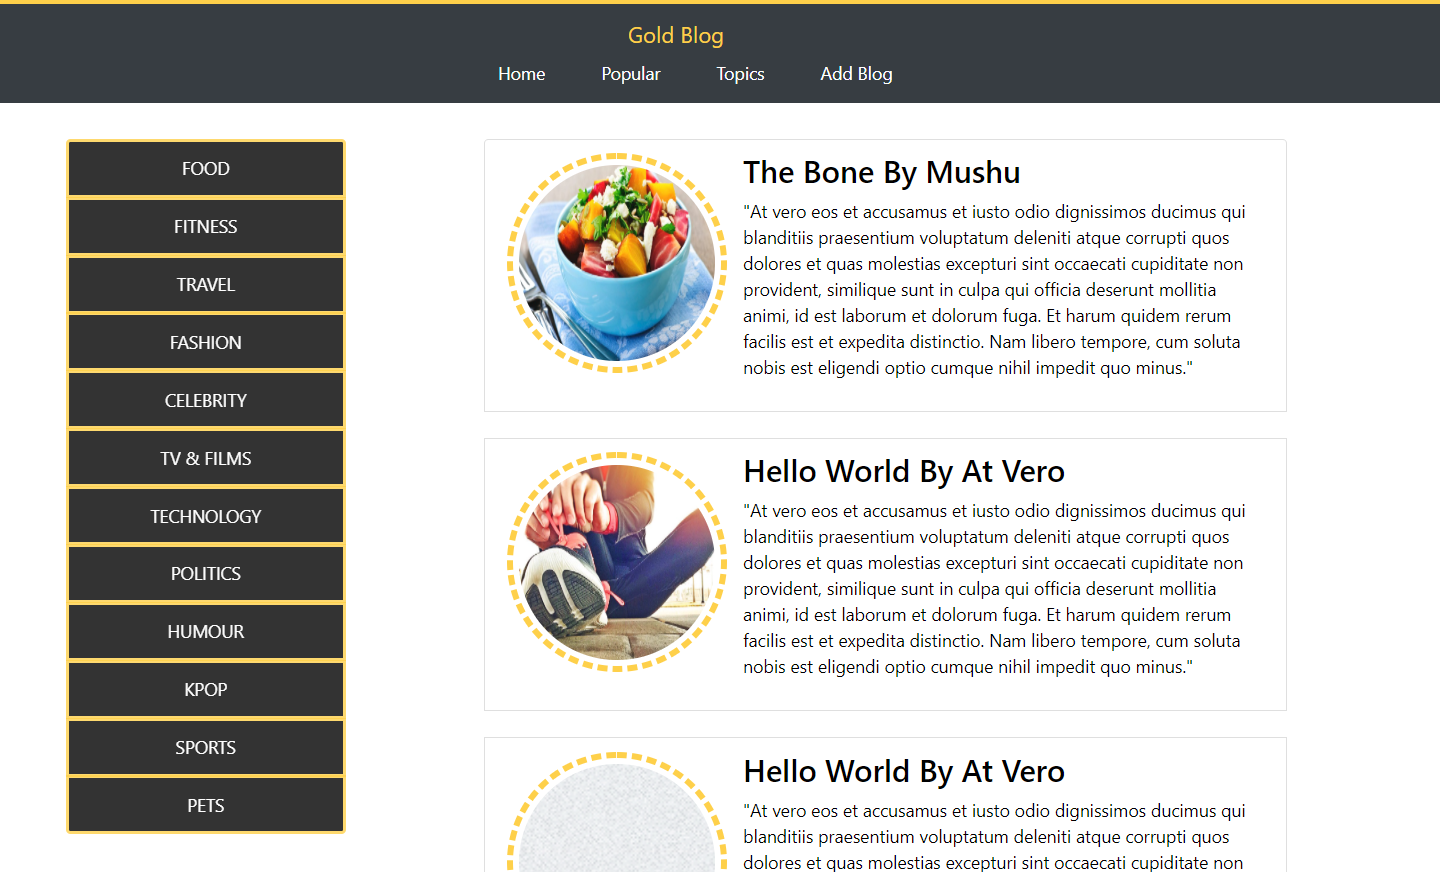
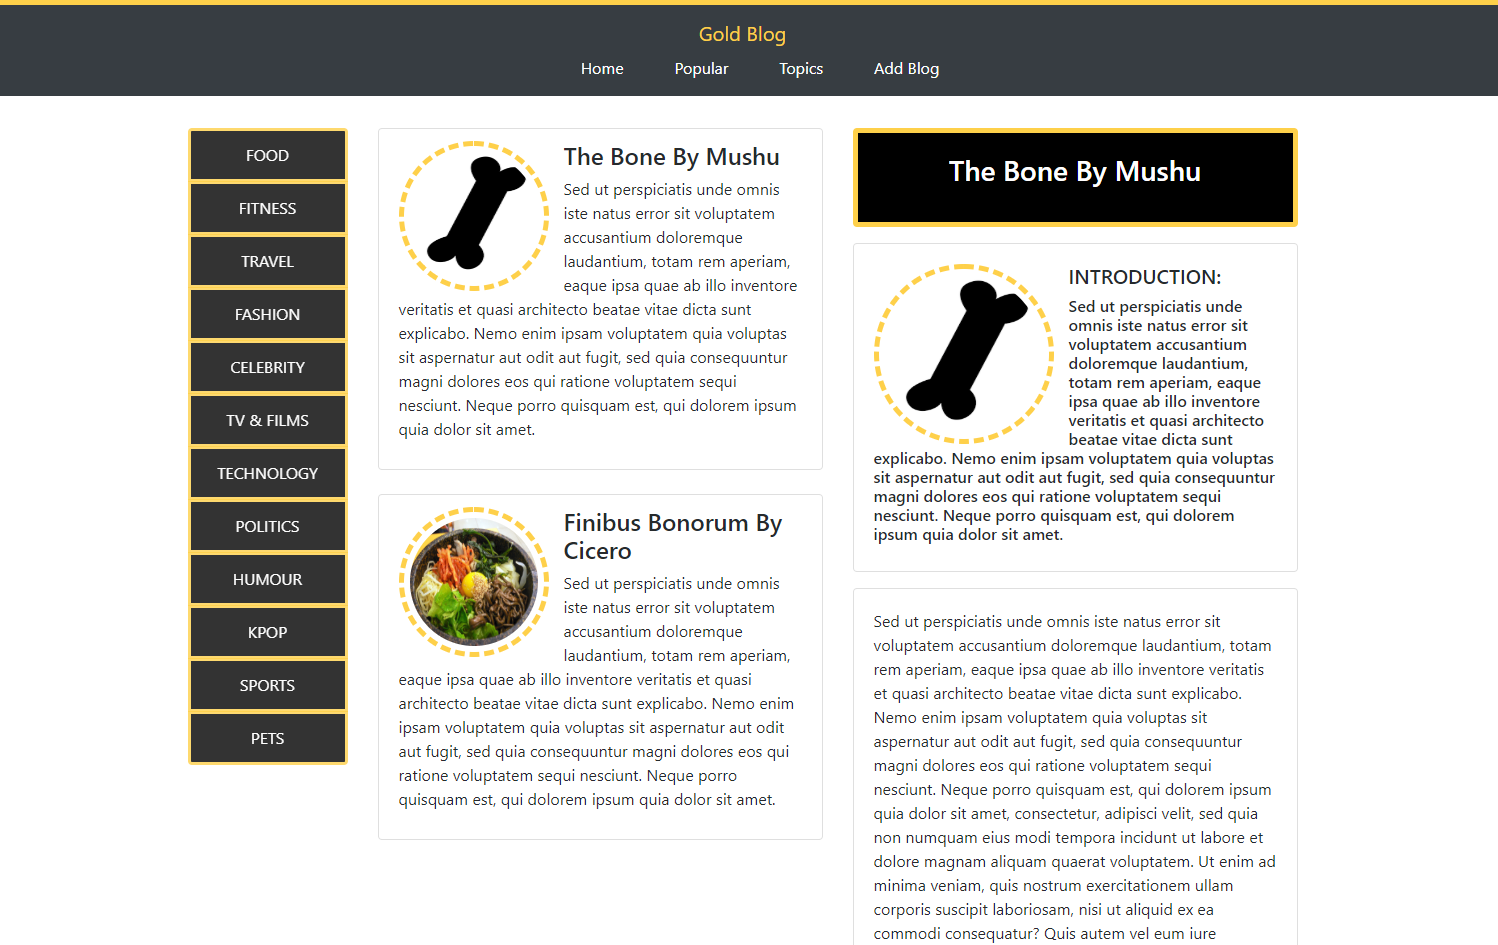
you can now select a blog in the list and display additional info

diff --git a/src/app/blog/side-bar/blog-preview/blog-preview.component.ts b/src/app/blog/side-bar/blog-preview/blog-preview.component.ts
@@ -1,4 +1,4 @@
-import { Component, OnInit } from '@angular/core';
+import { Component, OnInit, EventEmitter, Output } from '@angular/core';
 import { Blog } from '../../blog.model';
 
 @Component({
@@ -7,6 +7,8 @@ import { Blog } from '../../blog.model';
   styleUrls: ['./blog-preview.component.css']
 })
 export class BlogPreviewComponent implements OnInit {
+  // Pass the blog info as an EventEmitter
+  @Output() blogWasSelected = new EventEmitter<Blog>();
   //This will store only an array - objects defined in our model
   blogs: Blog[] = [
     new Blog(
@@ -14,7 +16,7 @@ export class BlogPreviewComponent implements OnInit {
       'Mushu',
       'Pet',
       'https://encrypted-tbn0.gstatic.com/images?q=tbn:ANd9GcSrFPcZfNzEFuFKS9i2Ovcx3xVX6Nk1j6SnNkVvmbasGlsphAAkng',
-      'Sed ut perspiciatis unde omnis iste natus error sit voluptatem accusantium doloremque laudantium, totam rem aperiam, eaque ipsa quae ab illo inventore veritatis et quasi architecto beatae vitae dicta sunt explicabo. Nemo enim ipsam voluptatem quia voluptas sit aspernatur aut odit aut fugit, sed quia consequuntur magni dolores eos qui ratione voluptatem sequi nesciunt. Neque porro quisquam est, qui dolorem ipsum quia dolor sit amet.'
+      'Sed ut perspiciatis unde omnis iste natus error sit voluptatem accusantium doloremque laudantium, totam rem aperiam, eaque ipsa quae ab illo inventore veritatis et quasi architecto beatae vitae dicta sunt explicabo. Nemo enim ipsam voluptatem quia voluptas sit aspernatur aut odit aut fugit, sed quia consequuntur magni dolores eos qui ratione voluptatem sequi nesciunt. Neque porro quisquam est, qui dolorem ipsum quia dolor sit amet.',
       'Sed ut perspiciatis unde omnis iste natus error sit voluptatem accusantium doloremque laudantium, totam rem aperiam, eaque ipsa quae ab illo inventore veritatis et quasi architecto beatae vitae dicta sunt explicabo. Nemo enim ipsam voluptatem quia voluptas sit aspernatur aut odit aut fugit, sed quia consequuntur magni dolores eos qui ratione voluptatem sequi nesciunt. Neque porro quisquam est, qui dolorem ipsum quia dolor sit amet, consectetur, adipisci velit, sed quia non numquam eius modi tempora incidunt ut labore et dolore magnam aliquam quaerat voluptatem. Ut enim ad minima veniam, quis nostrum exercitationem ullam corporis suscipit laboriosam, nisi ut aliquid ex ea commodi consequatur? Quis autem vel eum iure reprehenderit qui in ea voluptate velit esse quam nihil molestiae consequatur, vel illum qui dolorem eum fugiat quo voluptas nulla pariatur',
     ),
     new Blog(
@@ -30,6 +32,10 @@ export class BlogPreviewComponent implements OnInit {
   constructor() { }
 
   ngOnInit() {
+  }
+
+  onBlogSelected(blog: Blog) {
+    this.blogWasSelected.emit(blog);
   }
 
 }

diff --git a/src/app/app.module.ts b/src/app/app.module.ts
@@ -9,15 +9,14 @@ import { AppComponent } from './app.component';
 import { HeaderComponent } from './header/header.component';
 import { TopicsComponent } from './topics/topics.component';
 import { HomeComponent } from './home/home.component';
-
 import { BlogComponent } from './blog/blog.component';
 import { SideBarComponent } from './blog/side-bar/side-bar.component';
 import { BlogPreviewComponent } from './blog/side-bar/blog-preview/blog-preview.component';
 import { CreateNewBlogComponent } from './blog/create-new-blog/create-new-blog.component';
 import { ViewCreateNewComponent } from './blog/create-new-blog/view-create-new/view-create-new.component';
 import { InstructionsComponent } from './blog/create-new-blog/instructions/instructions.component';
-import { FullBlogViewComponent } from './blog/side-bar/full-blog-view/full-blog-view.component';
 import { BlogItemComponent } from './blog/side-bar/blog-preview/blog-item/blog-item.component';
+import { FullBlogDetailComponent } from './blog/side-bar/full-blog-detail/full-blog-detail.component';
 
 // Routes - specific type = routes - Need to import
 // Needs to be an array - because we will have multiple routes
@@ -40,8 +39,8 @@ const appRoutes: Routes = [
     CreateNewBlogComponent,
     ViewCreateNewComponent,
     InstructionsComponent,
-    FullBlogViewComponent,
     BlogItemComponent,
+    FullBlogDetailComponent,
   ],
   imports: [
     BrowserModule,

diff --git a/src/app/blog/side-bar/full-blog-detail/full-blog-detail.component.html b/src/app/blog/side-bar/full-blog-detail/full-blog-detail.component.html
@@ -1,32 +1,33 @@
-<div class="card goldBorder">
-  <div class="card-body">
-    <h3>{{ blogName }} By {{ authorName }}</h3>
-      <p>{{ topic }}</p>
+<div class="card gold">
+  <div class="card-body text-center">
+    <h3>{{ blog.title }} By {{ blog.name }}</h3>
+      <p></p>
     </div>
   </div>
-<div class="card mt-3 goldBorder">
+<div class="card mt-3">
   <div class="card-body">
     <div class="row">
       <div class="col-md-12">
         <div class="sidebar-thumb">
           <img
-            [src]="imageLink"
+            [src]="blog.imageLink"
             class="img-responsive"
             alt="Your Image Here">
         </div>
         <h5>INTRODUCTION:</h5>
-        <h6 class="pull-right">{{ summary }}</h6>
+        <h6 class="pull-right">{{ blog.summary }}</h6>
       </div>
     </div>
   </div>
 </div>
-<div class="card mt-3 goldBorder">
+<div class="card mt-3">
   <div class="card-body">
     <div class="row">
       <div class="col-md-12">
-        <p>{{ blog }}</p>
+        <p>{{ blog.blog }}</p>
       </div>
     </div>
+    <hr>
     <button type="button" class="btn btn-primary">Comment</button>
   </div>
 </div>

diff --git a/src/app/blog/side-bar/side-bar.component.html b/src/app/blog/side-bar/side-bar.component.html
@@ -1,5 +1,5 @@
 <div class="row">
-  <div class="col-md-3">
+  <div class="col-md-2">
     <div class="list-group mb-5 text-center" id="list-tab" role="tablist">
       <a class="list-group-item" href="#">FOOD</a>
       <a class="list-group-item" href="#">FITNESS</a>
@@ -15,9 +15,19 @@
       <a class="list-group-item" href="#">PETS</a>
   </div>
 </div>
-  <div class="col-md-1"></div>
-  <div class="col-md-8">
-    <app-blog-preview></app-blog-preview>
+  <div class="col-md-5">
+    <app-blog-preview
+      (blogWasSelected)="selectedBlog = $event"></app-blog-preview>
     <!-- <app-full-blog-view></app-full-blog-view> -->
+  </div>
+
+
+  <div class="col-md-5">
+    <app-full-blog-detail
+      *ngIf="selectedBlog; else infoText"
+      [blog]="selectedBlog"></app-full-blog-detail>
+    <ng-template #infoText>
+      <p>Please select a blog!</p>
+    </ng-template>
   </div>
 </div>

diff --git a/src/app/blog/side-bar/blog-preview/blog-item/blog-item.component.ts b/src/app/blog/side-bar/blog-preview/blog-item/blog-item.component.ts
@@ -1,4 +1,4 @@
-import { Component, OnInit, Input } from '@angular/core';
+import { Component, OnInit, Input, EventEmitter, Output } from '@angular/core';
 import{ Blog } from '../../../blog.model';
 
 @Component({
@@ -9,10 +9,15 @@ import{ Blog } from '../../../blog.model';
 export class BlogItemComponent implements OnInit {
   // use the @Input() decorator to get the blog from outside or any data
   @Input() blog: Blog;
+  @Output() blogSelected = new EventEmitter<void>();
 
   constructor() { }
 
   ngOnInit() {
+  }
+
+  onSelected() {
+    this.blogSelected.emit()
   }
 
 }

diff --git a/src/app/blog/side-bar/blog-preview/blog-item/blog-item.component.html b/src/app/blog/side-bar/blog-preview/blog-item/blog-item.component.html
@@ -1,6 +1,6 @@
 <a
-  href="#"
-  class="list-group-item clearfix mb-4">
+  class="list-group-item clearfix mb-4"
+  (click)="onSelected()">
   <!-- ngFor looping all blogs -->
   <div class="sidebar-thumb">
     <img
@@ -8,6 +8,6 @@
       alt="{{ blog.title }}"
       class="img-responsive img-round">
   </div>
-    <h3 class="list-group-item-heading">{{ blog.title }} By {{ blog.name }}</h3>
+    <h4 class="list-group-item-heading">{{ blog.title }} By {{ blog.name }}</h4>
     <p class="list-group-item-text">{{ blog.summary }}</p>
 </a>

diff --git a/src/app/blog/side-bar/full-blog-detail/full-blog-detail.component.ts b/src/app/blog/side-bar/full-blog-detail/full-blog-detail.component.ts
@@ -1,0 +1,18 @@
+import { Component, OnInit, Input } from '@angular/core';
+
+import { Blog } from '../../blog.model';
+
+@Component({
+  selector: 'app-full-blog-detail',
+  templateUrl: './full-blog-detail.component.html',
+  styleUrls: ['./full-blog-detail.component.css']
+})
+export class FullBlogDetailComponent implements OnInit {
+  //get data from outside
+  @Input() blog: Blog;
+  constructor() { }
+
+  ngOnInit() {
+  }
+
+}

diff --git a/src/app/blog/side-bar/full-blog-detail/full-blog-detail.component.css b/src/app/blog/side-bar/full-blog-detail/full-blog-detail.component.css
@@ -1,8 +1,8 @@
-gold {
+.gold {
   background-color: black;
   color: white;
   font-size: 16px;
-  border: 2px solid #FED148;
+  border: 5px solid #FED148;
 }
 
 .sidebar-thumb{
@@ -14,8 +14,8 @@ gold {
   background: #fff;
   border: 5px dashed #FED148;
   padding: 6px;
-  height: 200px;
-  width: 200px;
+  height: 180px;
+  width: 180px;
 
   -webkit-border-radius: 100px;
   -moz-border-radius: 100px;

diff --git a/src/app/blog/side-bar/side-bar.component.ts b/src/app/blog/side-bar/side-bar.component.ts
@@ -1,4 +1,5 @@
 import { Component, OnInit } from '@angular/core';
+import { Blog } from '../blog.model';
 
 @Component({
   selector: 'app-side-bar',
@@ -6,10 +7,12 @@ import { Component, OnInit } from '@angular/core';
   styleUrls: ['./side-bar.component.css']
 })
 export class SideBarComponent implements OnInit {
+  selectedBlog: Blog;
 
   constructor() { }
 
   ngOnInit() {
   }
+
 
 }

diff --git a/src/app/blog/side-bar/blog-preview/blog-preview.component.html b/src/app/blog/side-bar/blog-preview/blog-preview.component.html
@@ -1,3 +1,5 @@
 <app-blog-item
-  *ngFor="let blog of blogs"
-  [blog]="blog"></app-blog-item>
+    href="#"
+  *ngFor="let blogEl of blogs"
+  [blog]="blogEl"
+  (blogSelected)="onBlogSelected(blogEl)"></app-blog-item>

diff --git a/src/app/blog/side-bar/blog-preview/blog-item/blog-item.component.css b/src/app/blog/side-bar/blog-preview/blog-item/blog-item.component.css
@@ -7,8 +7,8 @@
   background: #fff;
   border: 5px dashed #FED148;
   padding: 6px;
-  height: 200px;
-  width: 200px;
+  height: 150px;
+  width: 150px;
 
   -webkit-border-radius: 100px;
   -moz-border-radius: 100px;
